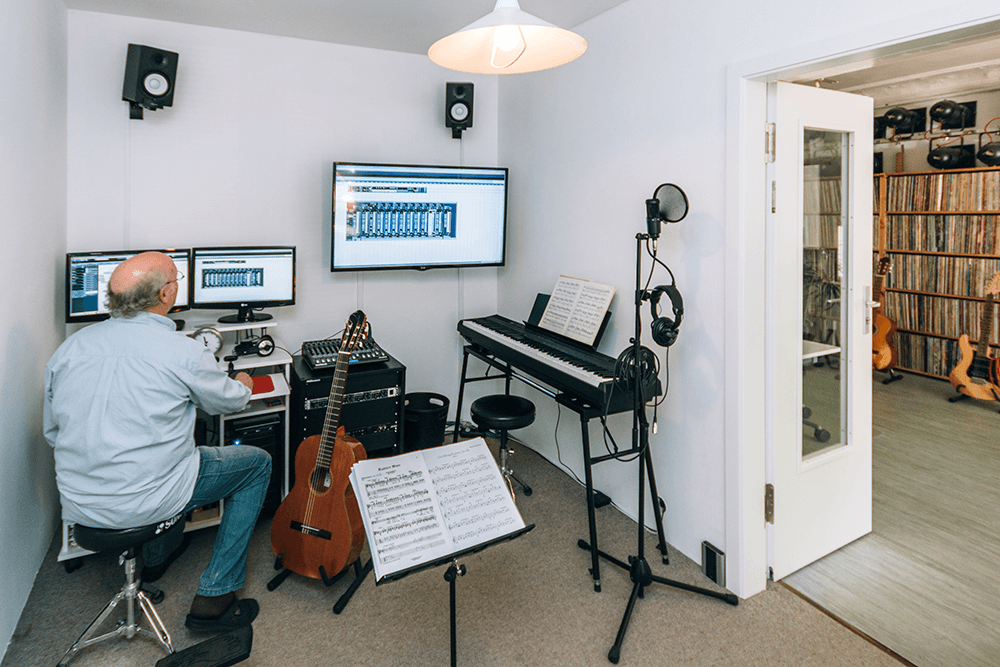
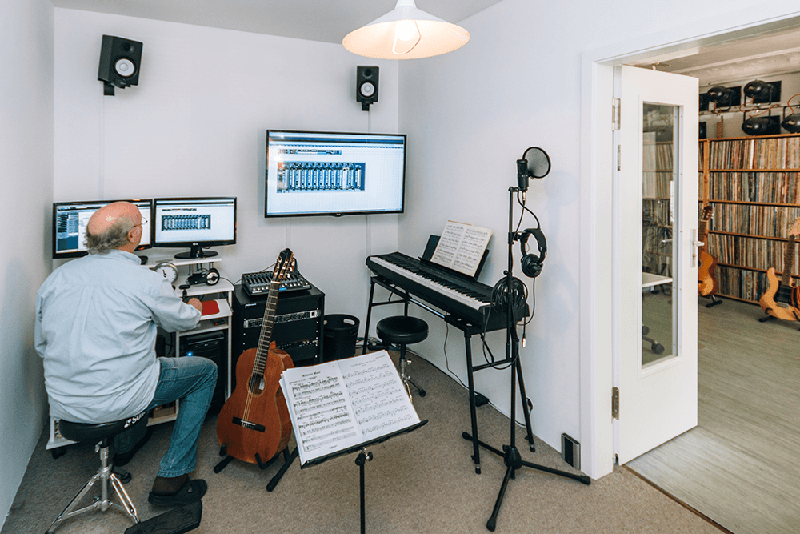
progress

diff --git a/_includes/technik.html b/_includes/technik.html
@@ -24,29 +24,29 @@
 
 <div class="my-gallery rowcount_1" itemscope itemtype="http://schema.org/ImageGallery">
     <figure itemprop="associatedMedia" itemscope itemtype="http://schema.org/ImageObject">
-        <a href="./assets/images/technik/1.png" itemprop="contentUrl" data-size="1920x1080">
-            <img src="./assets/images/technik/1.png" itemprop="thumbnail" alt="Image description" />
+        <a href="./assets/images/technik/Cubase_logo.svg" itemprop="contentUrl" data-size="1280x365">
+            <img src="./assets/images/technik/1.png" itemprop="thumbnail" alt="Cubase Logo" />
         </a>
         <figcaption itemprop="caption description">Für Aufnahmen steht das Sequenzerprogramm Cubase, mit diversen Plugins zur Verfügung.</figcaption>
     </figure>
 
     <figure itemprop="associatedMedia" itemscope itemtype="http://schema.org/ImageObject">
-        <a href="./assets/images/technik/2.jpg" itemprop="contentUrl" data-size="1920x1080">
-            <img src="./assets/images/technik/2.jpg" itemprop="thumbnail" alt="Image description" />
+        <a href="./assets/images/technik/MG_4199_m.jpg" itemprop="contentUrl" data-size="1920x1280">
+            <img src="./assets/images/technik/2.jpg" itemprop="thumbnail" alt="12 Kanal Mixer Signalansteuerung" />
         </a>
         <figcaption itemprop="caption description">Ein 12 Kanal Mixer sorgt für die richtige Signalansteuerung.</figcaption>
     </figure>
 
     <figure itemprop="associatedMedia" itemscope itemtype="http://schema.org/ImageObject">
-        <a href="./assets/images/technik/3.jpg" itemprop="contentUrl" data-size="1920x1080">
-            <img src="./assets/images/technik/3.jpg" itemprop="thumbnail" alt="Image description" />
+        <a href="./assets/images/technik/MG_4205_m.jpg" itemprop="contentUrl" data-size="1920x1280">
+            <img src="./assets/images/technik/3.jpg" itemprop="thumbnail" alt="Membranmikrofon in Nahaufnahme" />
         </a>
         <figcaption itemprop="caption description">Diverse Groß- und Kleinmembranmikrofone sind zum abnehmen des Gitarrensounds oder der Gesangsstimme bereit.</figcaption>
     </figure>
 
     <figure itemprop="associatedMedia" itemscope itemtype="http://schema.org/ImageObject">
-        <a href="./assets/images/technik/4.jpg" itemprop="contentUrl" data-size="1920x1080">
-            <img src="./assets/images/technik/4.jpg" itemprop="thumbnail" alt="Image description" />
+        <a href="./assets/images/technik/MG_4209_m.jpg" itemprop="contentUrl" data-size="1000x1500">
+            <img src="./assets/images/technik/4.jpg" itemprop="thumbnail" alt="Ein E-Piano zum Einspielen von Midi-Noten" />
         </a>
         <figcaption itemprop="caption description">Ein E-Piano zum Einspielen von Midi-Noten, zum Erklären der Musiktheorie oder einfach zum Bespielen ist vorhanden.</figcaption>
     </figure>

diff --git a/css/style.css b/css/style.css
@@ -149,7 +149,7 @@ footer{
     background-image: linear-gradient(
         rgba(0, 0, 0, 0.5),
         rgba(0, 0, 0, 0.5)
-      ),url("../assets/images/location/3.png");
+      ),url("../assets/images/jumbotron.png");
     background-position: center;
     background-size: cover;
     margin-bottom: 40px;
